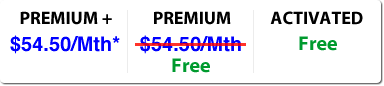
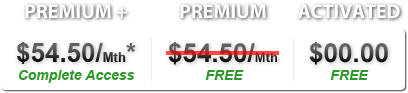
fresh

diff --git a/public/stylesheets/themes/storagelocator/style.css b/public/stylesheets/themes/storagelocator/style.css
@@ -1670,10 +1670,11 @@ filter:progid:DXImageTransform.Microsoft.Matrix(sizingMethod='auto expand',M11=0
 #text-box2 p{color:#000;font-size:16px;line-height:22px;margin:0;}
 
 #price-block{float:left;margin-top:27px;width:326px;}
-#price-block h4{background:url(http://s3.amazonaws.com/storagelocator/images/ui/storagelocator/try-now-bg.png) no-repeat;color:#000;font-size:15px;height:82px;line-height:28px;margin:10px 0 15px 10px;padding:11px 0 0 6px;text-align:center;width:322px;}
-#price-block p{color:#000;font-size:15px;margin:0;margin:0 0 0 32px;text-align:center;}
+#price-block h4.arrow{background:url(/images/ui/storagelocator/try-now-bg.png) no-repeat;color:#000;font-size:15px;height:118px;line-height:28px;margin:0 0 0 5px;padding:11px 0 0 6px;text-align:center;width:361px;}
+#price-block h4{color:#000;font-size:15px;line-height:28px;margin:0;padding:0;text-align:center;width:390px;}
+#price-block p{color:#000;font-size:13px;margin:0;margin:0 0 0 60px;text-align:center;}
 #price-block strong{color:#4C4BCC;font-size:30px;font-weight:bold;line-height:1.1;}
-#price-block span{color:#4C4BCC;}
+#price-block span{font-weight:bold;}
 
 #new_client_message{margin:0 auto;width:950px;}
 form .note{clear:both;display:block;font-size:80%;}
@@ -2105,14 +2106,14 @@ p.breadcrumb a{color:#fff;}
 #moving .num_icon{background:url(http://s3.amazonaws.com/storagelocator/images/ui/storagelocator/result-number.png) no-repeat;color:#fff;font-weight:bold;height:32px;padding:7px 0 0;text-align:center;position:static;text-shadow:1px 1px 0 #666;width:29px;}
 
 #fac-features #feats{background: url(http://s3.amazonaws.com/storagelocator/images/ui/storagelocator/usssl-imac.png) no-repeat right 75px;margin: 0 20px 0 30px;}
-#top_fac_page #fac-features #heading{-moz-border-radius:6px;border-radius:6px;-webkit-border-radius:6px;background:url(/images/ui/storagelocator/trialbg.png) repeat-x;color:#fff;margin-top:30px;overflow:hidden;height:101px;}
+#top_fac_page #fac-features #heading{-moz-border-radius:6px;border-radius:6px;-webkit-border-radius:6px;background:url(/images/ui/storagelocator/trialbg.png) repeat-x;color:#fff;height:103px;margin-top:30px;overflow:hidden;}
 #top_fac_page #fac-features #heading h3{display:block;float:left;font-size:32px;font-weight:bold;line-height:30px;margin:10px 0 0 15px;}
 #top_fac_page #heading ul{float:right;margin:0;width:384px;}
 #top_fac_page #heading ul li{display:block;float:left;text-align:center;padding:0;width:96px;}
 #top_fac_page #heading ul li span{display:block;font-size:12px;width:100%;}
 #top_fac_page #heading ul li strong{display:block;color:#fff;font-size:14px;margin-top:3px;width:100%;}
 #top_fac_page #heading .left{width:295px;}
-#top_fac_page #heading .right{height:64px;margin:9px 6px 0 0;width:384px;}
+#top_fac_page #heading .right{height:64px;margin:6px 10px 0 0;width:404px;}
 #top_fac_page #heading p{display:inline-block;line-height:14px;margin:2px 0 0 16px;}
 
 #mem-types #types-inner{border:1px solid #ccc;-moz-border-radius-bottomleft:8px;border-radius-bottomleft:8px;-webkit-border-radius-bottomleft:8px;-moz-border-radius-bottomright:8px;border-radius-bottomright:8px;-webkit-border-radius-bottomright:8px;}
